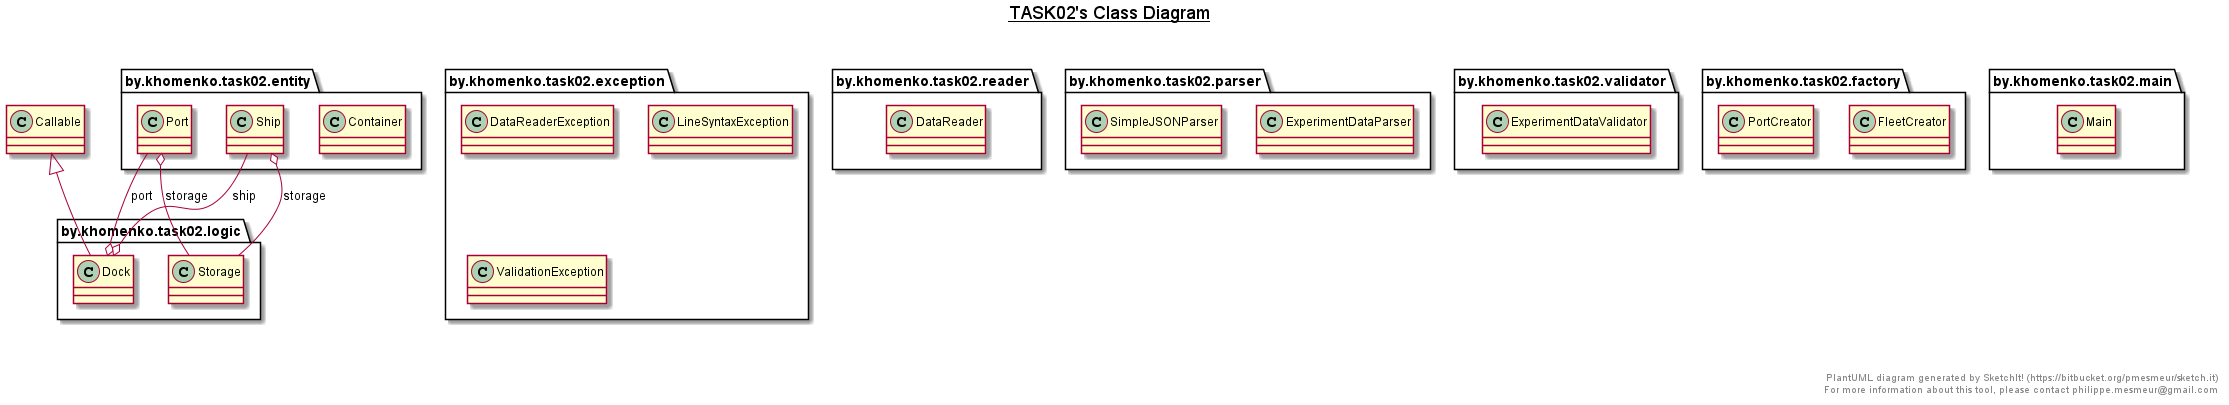
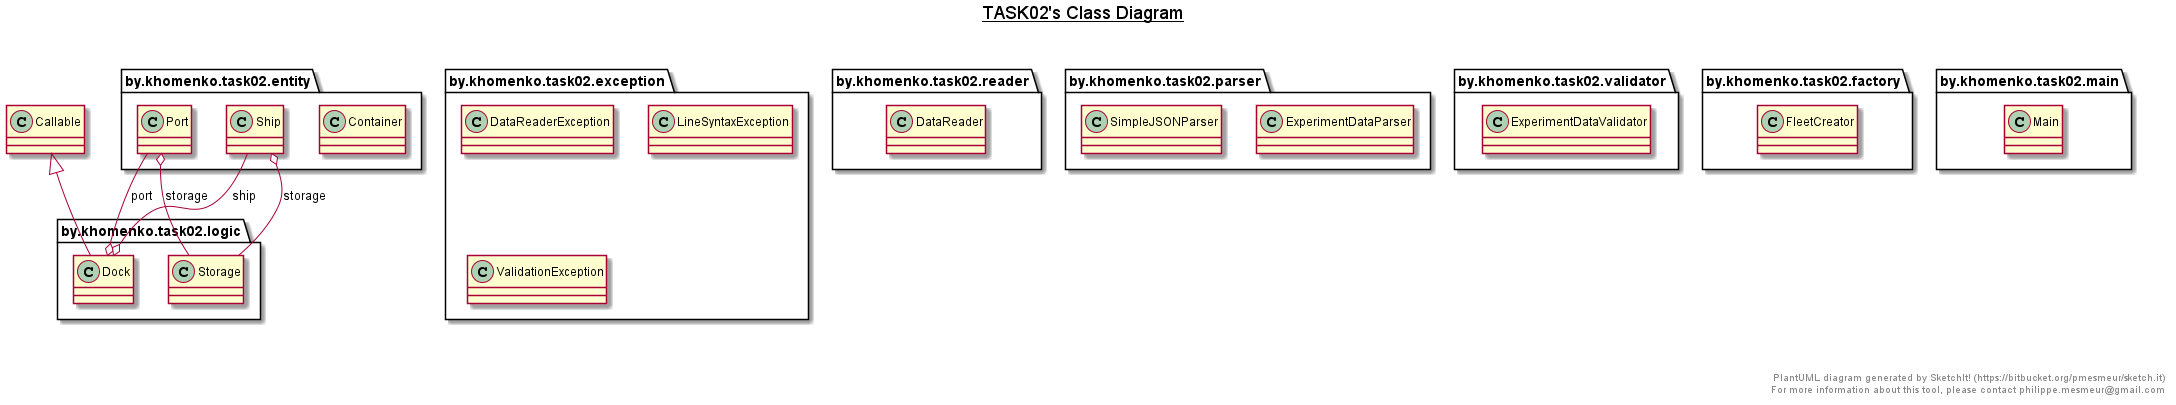
Final commit ready to review. Thread safe singleton added.

diff --git a/Task02/src/by/khomenko/task02/entity/Port.java b/Task02/src/by/khomenko/task02/entity/Port.java
@@ -2,10 +2,50 @@ package by.khomenko.task02.entity;
 
 import by.khomenko.task02.logic.Storage;
 
+import java.util.Map;
+import java.util.concurrent.locks.Lock;
+import java.util.concurrent.locks.ReentrantLock;
+
 /**
- * Entity represents port with docks and storage for ship's cargo service.
+ * Entity represents thread safe singleton class Port with storage.
  */
 public class Port {
+
+    /**
+     * Instance of Port type variable.
+     */
+    private static Port instance;
+    /**
+     * Tool for controlling access to a shared resource by multiple threads.
+     */
+    private static final Lock LOCK = new ReentrantLock();
+
+    /**
+     * @param parameters incoming parameters for Port instance initialization.
+     */
+    public static void setParameters(final Map<String, Object> parameters) {
+
+        size = ((Integer) parameters.get("PortStorageSize"));
+        amountOfDocks = ((Integer) parameters.get("AmountOfDocks"));
+
+    }
+
+    /**
+     * @return instance of Port.
+     */
+    public static Port getInstance() {
+        LOCK.lock();
+        if (instance == null) {
+            instance = new Port(size);
+        }
+        LOCK.unlock();
+        return instance;
+    }
+
+    /**
+     * Port's storage size.
+     */
+    private static int size;
 
     /**
      * Amount of cargo that port can got in general.
@@ -14,17 +54,16 @@ public class Port {
     /**
      * Amount of places/docks where ships can get cargo service one by one.
      */
-    private int amountOfDocks;
+    private static int amountOfDocks;
 
     /**
-     * @param storageSize      integer value of the whole port's cargo storage
-     *                         capacity.
-     * @param amountOfDocksVal integer value of amount of docks in the port.
+     * @param storageSize integer value of the whole port's cargo storage
+     *                    capacity.
      */
-    public Port(final int storageSize, final int amountOfDocksVal) {
+    public Port(final int storageSize) {
 
         this.storage = new Storage(storageSize);
-        this.amountOfDocks = amountOfDocksVal;
+
     }
 
     /**
@@ -37,7 +76,7 @@ public class Port {
     /**
      * @return integer value, amount of docks that port's got.
      */
-    public int getAmountOfDocks() {
+    public static int getAmountOfDocks() {
         return amountOfDocks;
     }
 }

diff --git a/Task02/src/by/khomenko/task02/main/Main.java b/Task02/src/by/khomenko/task02/main/Main.java
@@ -4,7 +4,6 @@ import by.khomenko.task02.entity.Container;
 import by.khomenko.task02.exception.DataReaderException;
 import by.khomenko.task02.exception.ValidationException;
 import by.khomenko.task02.factory.FleetCreator;
-import by.khomenko.task02.factory.PortCreator;
 import by.khomenko.task02.logic.Dock;
 import by.khomenko.task02.entity.Port;
 import by.khomenko.task02.entity.Ship;
@@ -29,8 +28,6 @@ import java.util.concurrent.Future;
  * Runs the application.
  */
 public final class Main {
-
-    //TODO Find out from teacher about singleton.
 
     /**
      * File path for reading data for apps functioning.
@@ -98,10 +95,9 @@ public final class Main {
                                      final Map<String, Object> fleetData)
             throws InterruptedException {
 
-        PortCreator portCreator = new PortCreator();
         FleetCreator fleetCreator = new FleetCreator();
 
-        Port port = portCreator.createPort(portData);
+        Port.setParameters(portData);
         Ship[] fleet = fleetCreator.createFleet(fleetData);
 
 
@@ -112,12 +108,12 @@ public final class Main {
         }
 
         ExecutorService executor
-                = Executors.newFixedThreadPool(port.getAmountOfDocks());
+                = Executors.newFixedThreadPool(Port.getAmountOfDocks());
 
         List<Future<String>> list = new ArrayList<>();
 
         for (Ship ship : fleet) {
-            Callable<String> callable = new Dock(port, ship);
+            Callable<String> callable = new Dock(ship);
             Future<String> future = executor.submit(callable);
             list.add(future);
         }
@@ -126,8 +122,6 @@ public final class Main {
             try {
 
                 LOGGER.info(fut.get());
-
-                //TODO Find out from teacher about releasing resources here.
 
             } catch (InterruptedException | ExecutionException e) {
                 String message = "Some exception's message here is"

diff --git a/Task02/src/by/khomenko/task02/logic/Dock.java b/Task02/src/by/khomenko/task02/logic/Dock.java
@@ -20,21 +20,15 @@ public class Dock implements Callable<String> {
     private static final Logger LOGGER = LogManager.getLogger(Dock.class);
 
     /**
-     * Instance of port that this particular dock is belonged to.
-     */
-    private final Port port;
-    /**
      * Instance of ship that the dock to perform operations of load or unload.
      */
     private final Ship ship;
 
     /**
-     * @param portVal Instance of port that's got this dock.
      * @param shipVal Instance of ship that comes to the port's dock for cargo
      *                service.
      */
-    public Dock(final Port portVal, final Ship shipVal) {
-        this.port = portVal;
+    public Dock(final Ship shipVal) {
         this.ship = shipVal;
     }
 
@@ -47,7 +41,7 @@ public class Dock implements Callable<String> {
      */
     @Override
     public String call() throws Exception {
-
+        Port port = Port.getInstance();
         while (!ship.getStorage().isEmpty()) {
 
             port.getStorage().put(ship.getStorage().take());
